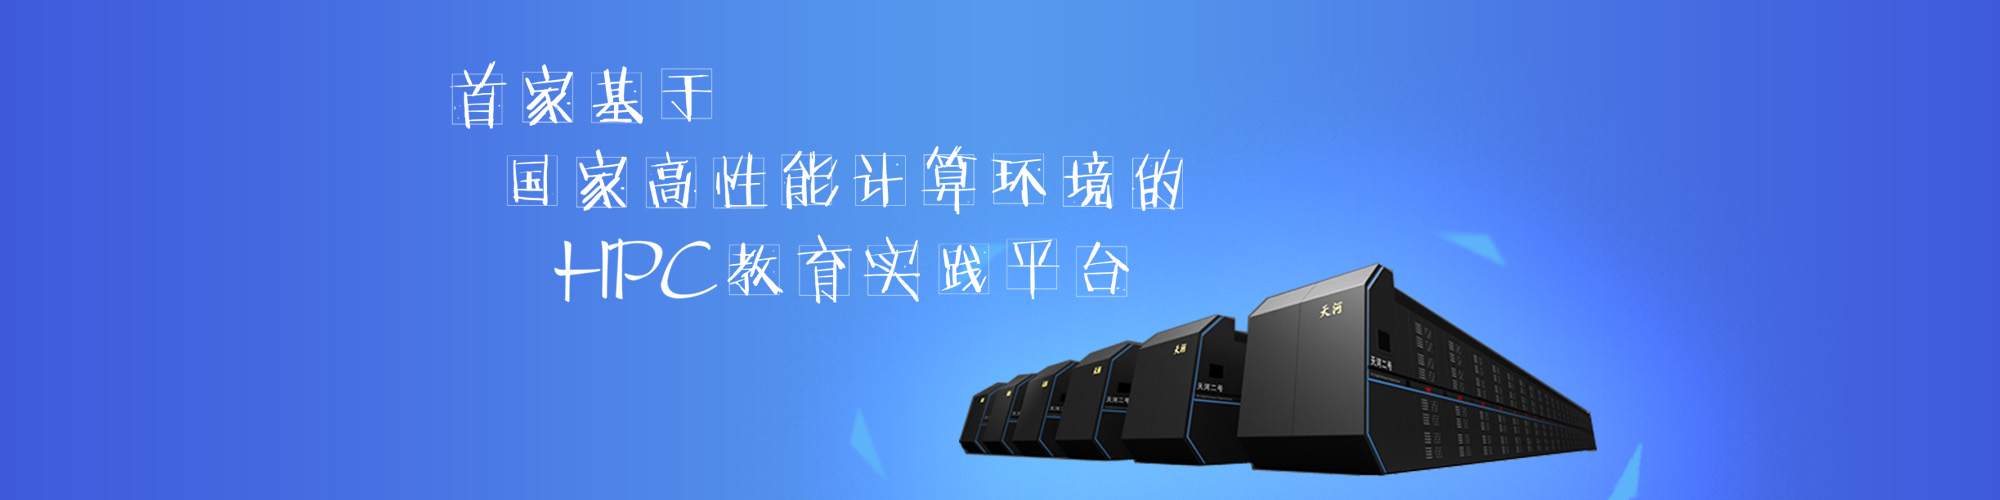
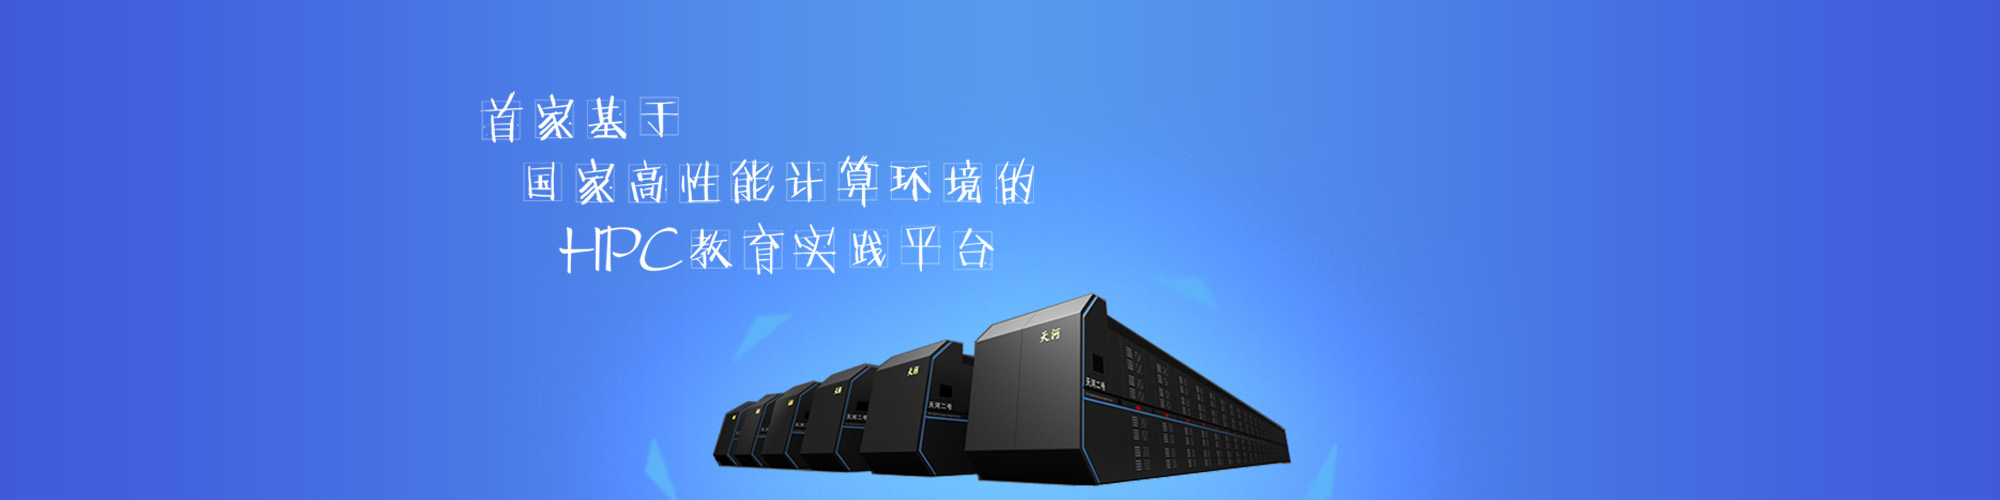
调整轮播图及登录图层 (#316)
增加留白部分
调整登录图层位置
删除左右翻页箭头

Changed region(s): [[0.279, 0.36, 0.868, 1.0], [0.217, 0.12, 0.589, 0.42], [0.372, 0.63, 0.403, 0.69]]

diff --git a/eHPC/templates/main/index.html b/eHPC/templates/main/index.html
@@ -32,16 +32,6 @@
                          src="{{ url_for('static', filename="images/carousel_3-min.jpg") }}" alt="图片3">
                 </div>
             </div>
-
-            <!-- Controls -->
-            <a class="left carousel-control" href="#carousel-example-generic" role="button" data-slide="prev">
-                <span class="glyphicon glyphicon-chevron-left" aria-hidden="true"></span>
-                <span class="sr-only">Previous</span>
-            </a>
-            <a class="right carousel-control" href="#carousel-example-generic" role="button" data-slide="next">
-                <span class="glyphicon glyphicon-chevron-right" aria-hidden="true"></span>
-                <span class="sr-only">Next</span>
-            </a>
         </div>
         <div class="userLoginPart">
 		 	<div class="innerPart">

diff --git a/eHPC/static/css/main.css b/eHPC/static/css/main.css
@@ -3756,15 +3756,6 @@ textarea {
     -webkit-transform: translateX(-50%);
 }
 
-.carousel-inner>.item>a>img, .carousel-inner>.item>img {
-    height: 100%;
-    max-width: none;
-    left: 50%;
-    position: relative;
-    transform: translateX(-50%);
-    -webkit-transform: translateX(-50%);
-}
-
 .swiper-container {
     position: relative;
 }
@@ -3788,7 +3779,7 @@ textarea {
 	width: 300px;
 	height: 500px;
 	position: absolute;
-	right: 80px;
+	right: 0px;
 }
 
 #inputLogin li {
